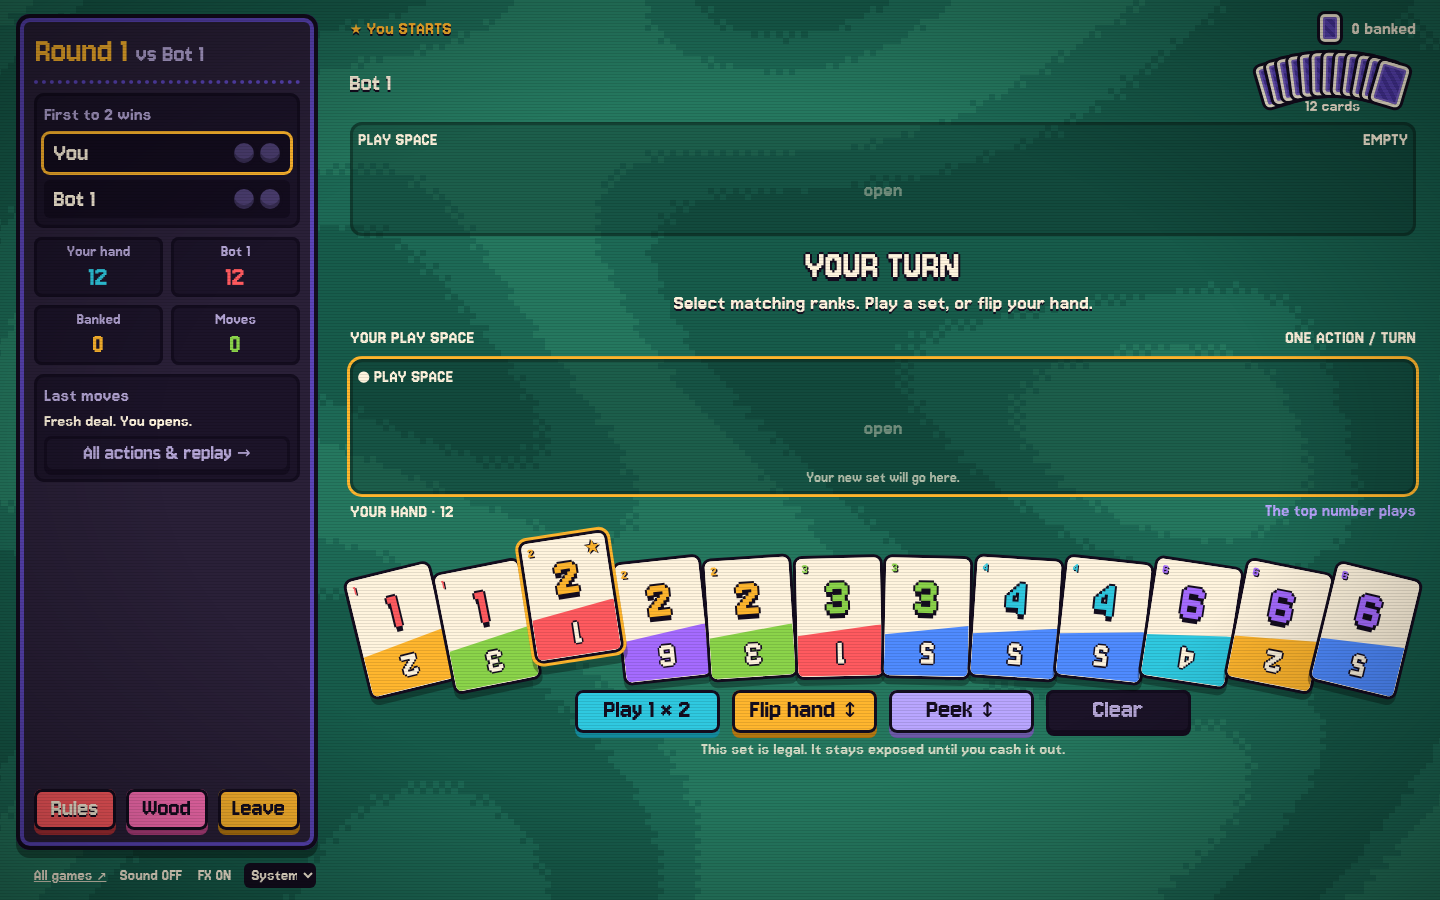
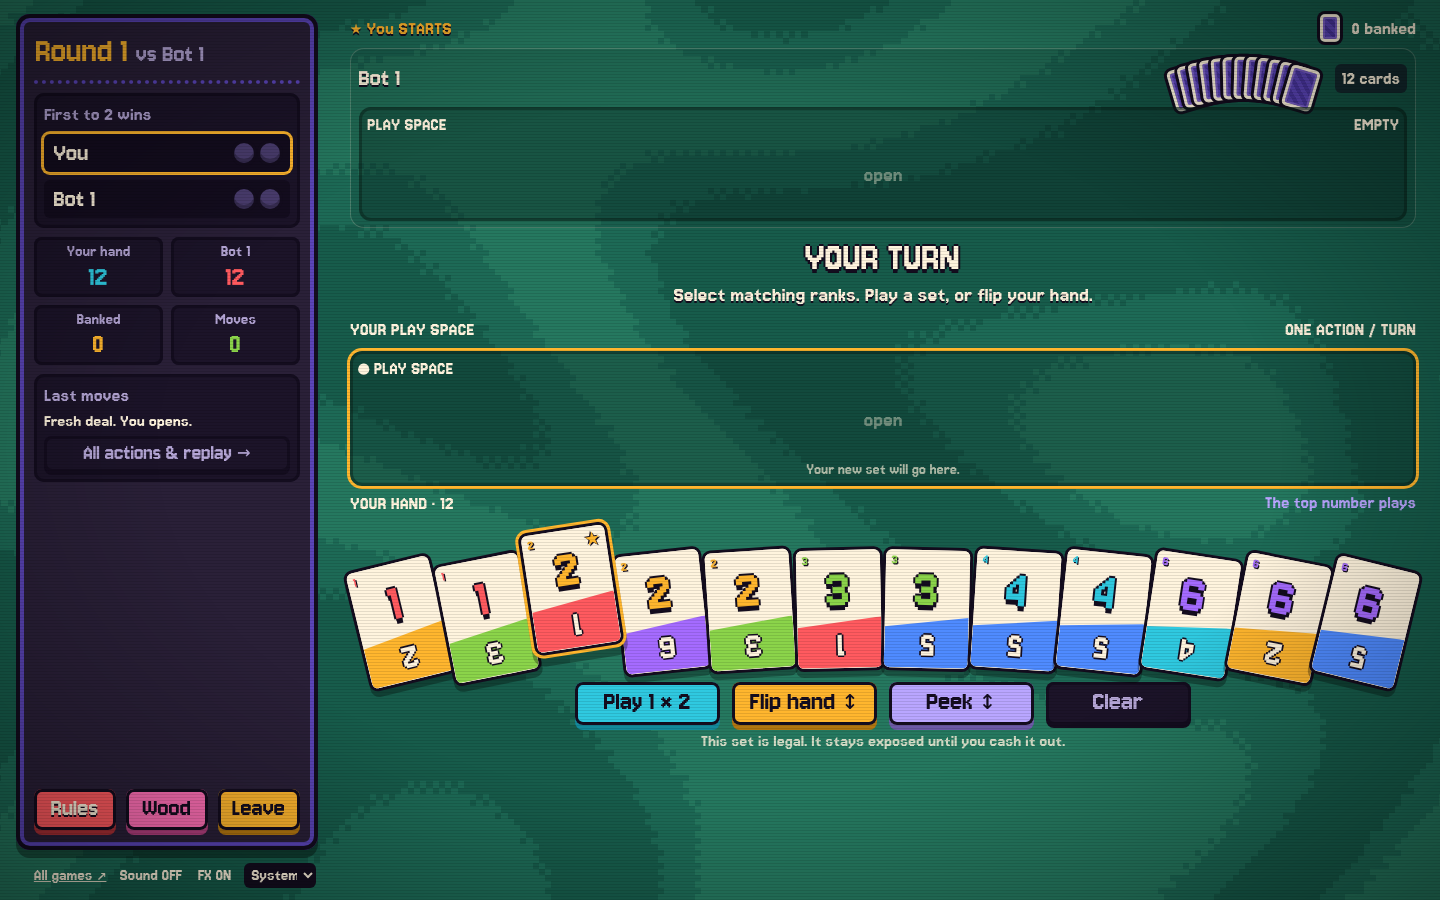
Group opponent names and hand counts inside distinct table regions

diff --git a/flip-it/src/app.js b/flip-it/src/app.js
@@ -181,12 +181,13 @@ function renderTable(v) {
   let html = '<div class="rivals rivals-'+(v.hands.length-1)+'">';
   for (let other=0;other<v.hands.length;other++) {
     if(other===p)continue;
-    html += '<div class="rival-zone"><div class="zone-title"><span>'+esc(ns[other])+(v.turn===other?' · TO PLAY':'')+'</span><span class="rival-hand" data-hand-seat="'+other+'"><span class="mini-fan" aria-hidden="true">'+Array.from({length:Math.min(v.hands[other].length,14)},(_,i)=>'<i class="mini-back" style="--fan:'+ (i-(Math.min(v.hands[other].length,14)-1)/2)+'"></i>').join('')+'</span>'+v.hands[other].length+' cards</span></div><div class="table-row ' + (v.options.quickTurns?'single-space':'') + '">';
+    const active=v.turn===other&&v.phase==='playing';
+    html += '<section class="rival-zone '+(active?'rival-active':'')+'" aria-label="'+esc(ns[other])+'’s table"><div class="zone-title rival-heading"><div class="rival-identity"><span class="rival-name">'+esc(ns[other])+'</span>'+(active?'<span class="rival-turn">TURN</span>':'')+'</div><span class="rival-hand" data-hand-seat="'+other+'"><span class="mini-fan" aria-hidden="true">'+Array.from({length:Math.min(v.hands[other].length,14)},(_,i)=>'<i class="mini-back" style="--fan:'+ (i-(Math.min(v.hands[other].length,14)-1)/2)+'"></i>').join('')+'</span><span class="rival-count">'+v.hands[other].length+' cards</span></span></div><div class="table-row ' + (v.options.quickTurns?'single-space':'') + '">';
     for(const target of (v.options.quickTurns?[0]:[0,1])) {
       const set=v.table[other][target],owner=v.hands.length===2?{}:{targetSeat:other},add={kind:'add',lane,target,cards:chosen,...owner},take={kind:'take',lane,target,...owner};
       html += '<article data-space-seat="'+other+'" data-space-lane="'+target+'" class="play-space rival-space" '+(set.length?'data-action="inspect-set" data-owner="'+other+'" data-target="'+target+'"':'')+'><div class="space-header"><span>'+(v.options.quickTurns?'PLAY':target?'RIGHT':'LEFT')+' SPACE</span><strong>'+(set.length?set.length+' × '+setValue(set):'EMPTY')+'</strong>'+(set.length?'<button class="set-inspect" data-action="inspect-set" data-owner="'+other+'" data-target="'+target+'" aria-label="Actions for '+esc(ns[other])+'’s '+(target?'right':'left')+' set" aria-expanded="'+(expandedSet===other+':'+target)+'">▾</button>':'')+'</div><div class="space-cards">'+(set.length?set.map(c=>cardHtml(c)).join(''):'<span class="space-empty">✦</span>')+'</div><div class="space-controls '+(expandedSet===other+':'+target?'expanded':'')+'">'+button('ADD 1','add','mint',!actionValid(actions,add)||preview,'data-target="'+target+'" data-owner="'+other+'"')+button('Grab & flip','take','gold',!actionValid(actions,take)||preview,'data-target="'+target+'" data-owner="'+other+'"')+'</div></article>';
     }
-    html += '</div></div>';
+    html += '</div></section>';
   }
   html += '</div>';
   html += '<p class="table-instruction '+(v.pending!==null?'chance-instruction':'')+'" role="status">' + (v.pending!==null ? 'LAST CHANCE' : animating ? 'CARDS IN MOTION' : turn ? preview ? 'PEEK AT THE OTHER SIDE' : 'YOUR TURN' : esc(ns[v.turn]).toUpperCase() + '’S TURN') + '<small>' + (v.pending!==null ? (v.pending===p ? 'Your hand is empty. '+v.repliesRemaining+' '+(v.repliesRemaining===1?'reply remains.':'replies remain.') : esc(ns[v.pending])+' has an empty hand. Send cards back to stop the win.') : turn ? v.options.quickTurns ? 'Select matching ranks. Play a set, or flip your hand.' : 'Use your ' + (v.beat ? 'right' : 'left') + ' space for this action.' : 'Watch their move. Plan your next flip.') + '</small></p><div class="zone-title"><span>YOUR PLAY SPACE' + (v.options.quickTurns?'':'S') + '</span><span>' + (v.options.quickTurns ? 'ONE ACTION / TURN' : (v.opening ? 'OPENING ACTION' : 'ACTION ' + (v.beat ? 1 : 2) + ' / 2')) + '</span></div><div class="table-row ' + (v.options.quickTurns?'single-space':'') + '">';

diff --git a/flip-it/style.css b/flip-it/style.css
@@ -2777,3 +2777,54 @@ html[data-game=flip-it] .arcade-ai-dialog button[data-ai=forget] {
   background:var(--coral);
   box-shadow:0 4px #a82f35,inset 0 0 0 3px var(--k);
 }
+/* Each opponent owns a framed region and a single, readable hand badge. */
+.rivals { column-gap:18px; row-gap:12px; }
+.rival-zone {
+  padding:6px 8px;
+  border:1px solid #fff4de38;
+  border-radius:14px;
+  background:#081e1826;
+}
+.rival-zone.rival-active { border-color:var(--amber); }
+.rival-zone>.rival-heading { gap:12px; min-height:38px; margin:0 0 6px; }
+.rival-identity { display:flex; align-items:center; gap:8px; min-width:0; flex:1; }
+.rival-name {
+  font:26px/1 'Jersey 10';
+  text-shadow:0 2px var(--k);
+  white-space:nowrap;
+  overflow:hidden;
+  text-overflow:ellipsis;
+  min-width:0;
+}
+.rival-turn {
+  flex-shrink:0;
+  border-radius:5px;
+  background:var(--amber);
+  color:var(--k);
+  font:17px/1 'Jersey 15';
+  padding:3px 6px;
+}
+.rival-zone .rival-hand { flex-direction:row; gap:8px; flex-shrink:0; }
+.rival-count {
+  font-size:19px;
+  line-height:1;
+  white-space:nowrap;
+  background:#140d1f99;
+  padding:5px 7px;
+  border-radius:6px;
+}
+@media(min-width:761px) {
+  .table-size-4 .rivals,.table-size-5 .rivals { column-gap:18px; row-gap:8px; }
+  .table-size-4 .rival-zone,.table-size-5 .rival-zone { padding-top:4px; padding-bottom:4px; }
+  .table-size-4 .rival-zone>.rival-heading,.table-size-5 .rival-zone>.rival-heading { min-height:36px; margin:0 0 5px; }
+  .table-size-4 .rival-name,.table-size-5 .rival-name { font-size:23px; }
+  .table-size-4 .rivals .mini-back,.table-size-5 .rivals .mini-back {
+    width:24px;
+    height:34px;
+    margin-left:-16px;
+    border-width:2px;
+    box-shadow:0 0 0 2px var(--k),inset 0 0 0 1px #7c61ca;
+  }
+  .table-size-4 .rivals .mini-back:first-child,.table-size-5 .rivals .mini-back:first-child { margin-left:0; }
+  .table-size-4 .rival-count,.table-size-5 .rival-count { font-size:18px; }
+}
